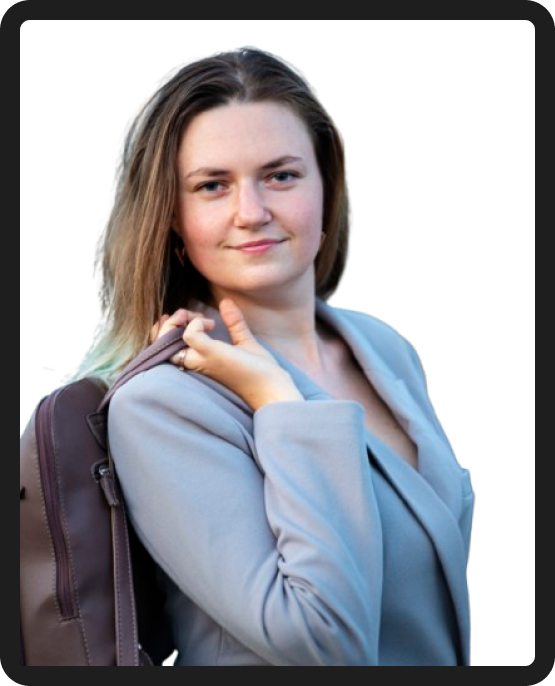
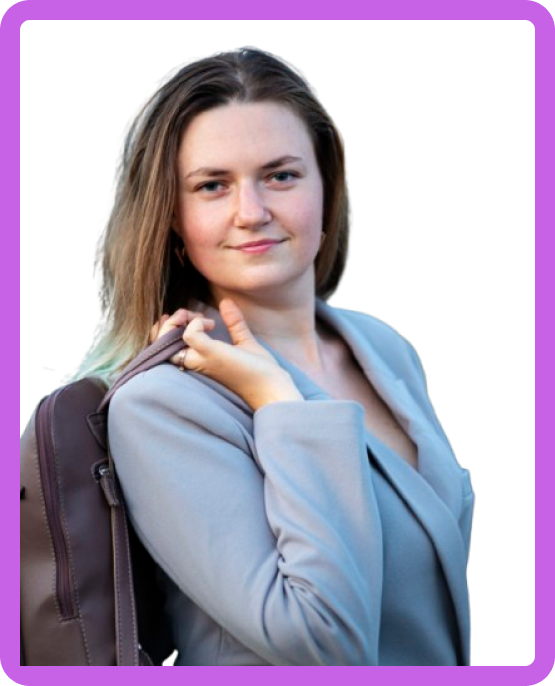
section - about me

Changed region(s): [[0.0, 0.0, 1.0, 1.0]]

diff --git a/src/components/about/About.jsx b/src/components/about/About.jsx
@@ -1,0 +1,47 @@
+import c from "./About.module.css";
+import { IoMdCheckmarkCircleOutline } from "react-icons/io";
+
+export default function About() {
+  return (
+    <section className={c.about}>
+      <div className="container">
+        <div className={c.inner}>
+          <div className={c.foto}>
+            <picture>
+              <source
+                srcSet="
+                ./about/about-x1.png    1x,
+                ./about/about-x1.png 2x
+              "
+              />
+              <img src="./about/about-x1.png" alt="Mariia Skydan" />
+            </picture>
+          </div>
+          <div className={c.info}>
+            <h2 className={c.title}>About me</h2>
+            <p className={c.text}>
+              Lorem ipsum dolor sit amet consectetur. Tristique amet sed massa
+              nibh lectus netus in. Aliquet donec morbi convallis pretium.
+              Turpis tempus pharetra
+            </p>
+            <ul className={c.list}>
+              <li className={c.item}> <IoMdCheckmarkCircleOutline  className={c.icon}/>
+                Develop highly interactive Front end <span>/ User Interfaces for the
+                web</span>
+              </li>
+              <li className={c.item}><IoMdCheckmarkCircleOutline  className={c.icon}/>
+                Progressive Web Applications ( PWA ) <span>in normal and SPA Stacks</span>
+              </li>
+              <li className={c.item}><IoMdCheckmarkCircleOutline  className={c.icon}/>
+                Integration of third party services such as AWS <span>/ Digital Ocean</span>
+              </li>
+              <li className={c.item}><IoMdCheckmarkCircleOutline  className={c.icon}/>
+                Integration of payment services <span>such as M-Pesa and paypal etc</span>
+              </li>
+            </ul>
+          </div>
+        </div>
+      </div>
+    </section>
+  );
+}

diff --git a/src/components/about/About.module.css b/src/components/about/About.module.css
@@ -1,0 +1,94 @@
+.about {
+  margin-top: 30px;
+}
+
+.foto {
+  display: none;
+}
+
+.title {
+  text-align: center;
+  margin-bottom: 20px;
+}
+.text {
+  margin-bottom: 10px;
+  text-align: justify;
+}
+.list {
+  padding: 0 10px;
+  text-align: justify;
+}
+.item {
+  padding: 4px 0;
+  display: flex;
+}
+.item span {
+  display: none;
+}
+.icon {
+  margin-right: 5px;
+  color: #c762e7;
+}
+
+@media only screen and (min-width: 768px) {
+  .about {
+    margin-top: 80px;
+  }
+  .inner {
+    display: flex;
+  }
+  .foto {
+    display: block;
+    width: 300px;
+  }
+  .info {
+    width: 60%;
+    margin-left: 30px;
+  }
+  .title {
+    font-size: 32px;
+    margin: 40px 0 30px;
+  }
+  .list {
+    padding: 0;
+  }
+}
+@media only screen and (min-width: 1024px) {
+  .foto {
+    width: 400px;
+  }
+  .title {
+    font-size: 42px;
+    margin: 60px 0 40px;
+  }
+  .info {
+    margin-left: 50px;
+  }
+  .text,
+  .list {
+    font-size: 18px;
+    letter-spacing: 1px;
+  }
+  .item {
+    padding: 8px 0;
+  }
+}
+@media only screen and (min-width: 1440px) {
+  .about {
+    margin-top: 100px;
+  }
+  .foto {
+    width: 450px;
+  }
+  .title {
+    font-size: 54px;
+    margin: 80px 0 60px;
+  }
+  .list {
+    margin-top: 30px;
+  }
+  .text,
+  .list {
+    font-size: 22px;
+  }
+}

diff --git a/src/components/main/Main.jsx b/src/components/main/Main.jsx
@@ -1,10 +1,12 @@
 import "./Main.module.css";
 import Hero from "../hero/Hero";
+import About from "../about/About";
 
 export default function Main() {
   return (
     <>
       <Hero />
+      <About />
     </>
   );
 }
